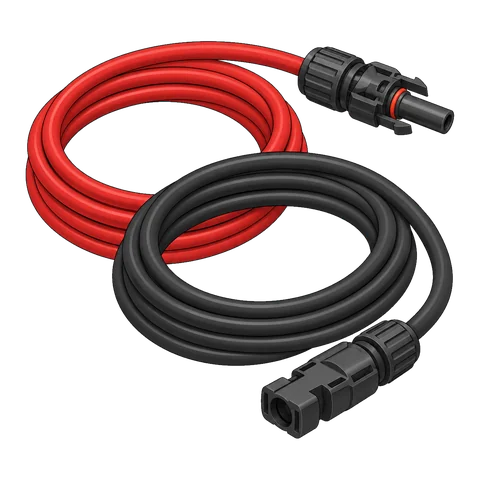
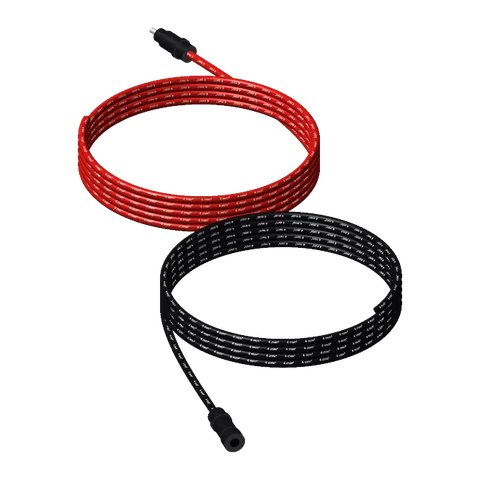
Einkaufsliste: Solarkabel 4 mm² rot/schwarz im gleichen Maßstab mit Aufdruck und Solarsteckern

diff --git a/einkaufsliste.html b/einkaufsliste.html
@@ -114,7 +114,7 @@
         <div class="wrap">
           <h2>Kabel</h2><p class="gruppe-text">Querschnitte wie im Plan angegeben. Rot für Plus, Schwarz für Minus.</p>
           <div class="teile-grid">
-            <article class="teil" id="lf0399355"><div class="teil-bild"><img src="assets/teile/lf0399355.webp?v=95dff23f" alt="Kabel 1,5 mm² D+ Leitung (Symbolbild)" width="480" height="480" loading="lazy"><span>Symbolbild</span></div><h3>Kabel 1,5 mm² D+ Leitung</h3><a class="product-btn" href="/go/lf0399355/amazon" target="_blank" rel="sponsored noopener">Bei Amazon ansehen*</a></article><article class="teil" id="lcfac3a72"><div class="teil-bild"><img src="assets/teile/lcfac3a72.webp?v=edcf3bbc" alt="Kabel 3x2,5 mm² Leitung (Symbolbild)" width="480" height="480" loading="lazy"><span>Symbolbild</span></div><h3>Kabel 3x2,5 mm² Leitung</h3><a class="product-btn" href="/go/lcfac3a72/amazon" target="_blank" rel="sponsored noopener">Bei Amazon ansehen*</a></article><article class="teil" id="led389ad4"><div class="teil-bild"><img src="assets/teile/led389ad4.webp?v=b8f8a568" alt="Kabel 4 mm² rot (Symbolbild)" width="480" height="480" loading="lazy"><span>Symbolbild</span></div><h3>Kabel 4 mm² rot</h3><a class="product-btn" href="/go/led389ad4/amazon" target="_blank" rel="sponsored noopener">Bei Amazon ansehen*</a></article><article class="teil" id="l26faf61c"><div class="teil-bild"><img src="assets/teile/l26faf61c.webp?v=6f6393ad" alt="Kabel 4 mm² schwarz (Symbolbild)" width="480" height="480" loading="lazy"><span>Symbolbild</span></div><h3>Kabel 4 mm² schwarz</h3><a class="product-btn" href="/go/l26faf61c/amazon" target="_blank" rel="sponsored noopener">Bei Amazon ansehen*</a></article><article class="teil" id="ld71281d9"><div class="teil-bild"><img src="assets/teile/ld71281d9.webp?v=adb2b2ae" alt="Kabel 4 mm² Solarkabel rot/schwarz (Symbolbild)" width="480" height="480" loading="lazy"><span>Symbolbild</span></div><h3>Kabel 4 mm² Solarkabel rot/schwarz</h3><a class="product-btn" href="/go/ld71281d9/amazon" target="_blank" rel="sponsored noopener">Bei Amazon ansehen*</a></article><article class="teil" id="lf2e2b438"><div class="teil-bild"><img src="assets/teile/lf2e2b438.webp?v=f31e7be3" alt="Kabel 6 mm² grün/gelb (Symbolbild)" width="480" height="480" loading="lazy"><span>Symbolbild</span></div><h3>Kabel 6 mm² grün/gelb</h3><a class="product-btn" href="/go/lf2e2b438/amazon" target="_blank" rel="sponsored noopener">Bei Amazon ansehen*</a></article><article class="teil" id="l64186eaa"><div class="teil-bild"><img src="assets/teile/l64186eaa.webp?v=2b7c8a00" alt="Kabel 6 mm² rot (Symbolbild)" width="480" height="480" loading="lazy"><span>Symbolbild</span></div><h3>Kabel 6 mm² rot</h3><a class="product-btn" href="/go/l64186eaa/amazon" target="_blank" rel="sponsored noopener">Bei Amazon ansehen*</a></article><article class="teil" id="l3e218847"><div class="teil-bild"><img src="assets/teile/l3e218847.webp?v=609ffc8e" alt="Kabel 6 mm² schwarz (Symbolbild)" width="480" height="480" loading="lazy"><span>Symbolbild</span></div><h3>Kabel 6 mm² schwarz</h3><a class="product-btn" href="/go/l3e218847/amazon" target="_blank" rel="sponsored noopener">Bei Amazon ansehen*</a></article><article class="teil" id="ldb46eb7e"><div class="teil-bild"><img src="assets/teile/ldb46eb7e.webp?v=b5eac163" alt="Kabel 16 mm² rot (Symbolbild)" width="480" height="480" loading="lazy"><span>Symbolbild</span></div><h3>Kabel 16 mm² rot</h3><a class="product-btn" href="/go/ldb46eb7e/amazon" target="_blank" rel="sponsored noopener">Bei Amazon ansehen*</a></article><article class="teil" id="l4f5eabbb"><div class="teil-bild"><img src="assets/teile/l4f5eabbb.webp?v=fb033052" alt="Kabel 16 mm² schwarz (Symbolbild)" width="480" height="480" loading="lazy"><span>Symbolbild</span></div><h3>Kabel 16 mm² schwarz</h3><a class="product-btn" href="/go/l4f5eabbb/amazon" target="_blank" rel="sponsored noopener">Bei Amazon ansehen*</a></article><article class="teil" id="l1732f102"><div class="teil-bild"><img src="assets/teile/l1732f102.webp?v=311a115b" alt="Kabel 25 mm² rot (Symbolbild)" width="480" height="480" loading="lazy"><span>Symbolbild</span></div><h3>Kabel 25 mm² rot</h3><a class="product-btn" href="/go/l1732f102/amazon" target="_blank" rel="sponsored noopener">Bei Amazon ansehen*</a></article><article class="teil" id="lb9239d2a"><div class="teil-bild"><img src="assets/teile/lb9239d2a.webp?v=8cfe4eda" alt="Kabel 25 mm² schwarz (Symbolbild)" width="480" height="480" loading="lazy"><span>Symbolbild</span></div><h3>Kabel 25 mm² schwarz</h3><a class="product-btn" href="/go/lb9239d2a/amazon" target="_blank" rel="sponsored noopener">Bei Amazon ansehen*</a></article><article class="teil" id="l63e70641"><div class="teil-bild"><img src="assets/teile/l63e70641.webp?v=d2238344" alt="Kabel 35 mm² rot (Symbolbild)" width="480" height="480" loading="lazy"><span>Symbolbild</span></div><h3>Kabel 35 mm² rot</h3><a class="product-btn" href="/go/l63e70641/amazon" target="_blank" rel="sponsored noopener">Bei Amazon ansehen*</a></article><article class="teil" id="l79b5dc30"><div class="teil-bild"><img src="assets/teile/l79b5dc30.webp?v=2d52f716" alt="Kabel 35 mm² schwarz (Symbolbild)" width="480" height="480" loading="lazy"><span>Symbolbild</span></div><h3>Kabel 35 mm² schwarz</h3><a class="product-btn" href="/go/l79b5dc30/amazon" target="_blank" rel="sponsored noopener">Bei Amazon ansehen*</a></article><article class="teil" id="l782c40e9"><div class="teil-bild"><img src="assets/teile/l782c40e9.webp?v=9d58ff45" alt="Kabel 70 mm² rot (Symbolbild)" width="480" height="480" loading="lazy"><span>Symbolbild</span></div><h3>Kabel 70 mm² rot</h3><a class="product-btn" href="/go/l782c40e9/amazon" target="_blank" rel="sponsored noopener">Bei Amazon ansehen*</a></article><article class="teil" id="l4ee3f033"><div class="teil-bild"><img src="assets/teile/l4ee3f033.webp?v=d798a8de" alt="Kabel 70 mm² schwarz (Symbolbild)" width="480" height="480" loading="lazy"><span>Symbolbild</span></div><h3>Kabel 70 mm² schwarz</h3><a class="product-btn" href="/go/l4ee3f033/amazon" target="_blank" rel="sponsored noopener">Bei Amazon ansehen*</a></article><article class="teil" id="ld0e943eb"><div class="teil-bild"><img src="assets/teile/ld0e943eb.webp?v=78083894" alt="Kabel 95 mm² SGX rot (Symbolbild)" width="480" height="480" loading="lazy"><span>Symbolbild</span></div><h3>Kabel 95 mm² SGX rot</h3><a class="product-btn" href="/go/ld0e943eb/amazon" target="_blank" rel="sponsored noopener">Bei Amazon ansehen*</a></article><article class="teil" id="la26bf2cd"><div class="teil-bild"><img src="assets/teile/la26bf2cd.webp?v=7bd3e5aa" alt="Kabel 95 mm² SGX schwarz (Symbolbild)" width="480" height="480" loading="lazy"><span>Symbolbild</span></div><h3>Kabel 95 mm² SGX schwarz</h3><a class="product-btn" href="/go/la26bf2cd/amazon" target="_blank" rel="sponsored noopener">Bei Amazon ansehen*</a></article>
+            <article class="teil" id="lf0399355"><div class="teil-bild"><img src="assets/teile/lf0399355.webp?v=95dff23f" alt="Kabel 1,5 mm² D+ Leitung (Symbolbild)" width="480" height="480" loading="lazy"><span>Symbolbild</span></div><h3>Kabel 1,5 mm² D+ Leitung</h3><a class="product-btn" href="/go/lf0399355/amazon" target="_blank" rel="sponsored noopener">Bei Amazon ansehen*</a></article><article class="teil" id="lcfac3a72"><div class="teil-bild"><img src="assets/teile/lcfac3a72.webp?v=edcf3bbc" alt="Kabel 3x2,5 mm² Leitung (Symbolbild)" width="480" height="480" loading="lazy"><span>Symbolbild</span></div><h3>Kabel 3x2,5 mm² Leitung</h3><a class="product-btn" href="/go/lcfac3a72/amazon" target="_blank" rel="sponsored noopener">Bei Amazon ansehen*</a></article><article class="teil" id="led389ad4"><div class="teil-bild"><img src="assets/teile/led389ad4.webp?v=b8f8a568" alt="Kabel 4 mm² rot (Symbolbild)" width="480" height="480" loading="lazy"><span>Symbolbild</span></div><h3>Kabel 4 mm² rot</h3><a class="product-btn" href="/go/led389ad4/amazon" target="_blank" rel="sponsored noopener">Bei Amazon ansehen*</a></article><article class="teil" id="l26faf61c"><div class="teil-bild"><img src="assets/teile/l26faf61c.webp?v=6f6393ad" alt="Kabel 4 mm² schwarz (Symbolbild)" width="480" height="480" loading="lazy"><span>Symbolbild</span></div><h3>Kabel 4 mm² schwarz</h3><a class="product-btn" href="/go/l26faf61c/amazon" target="_blank" rel="sponsored noopener">Bei Amazon ansehen*</a></article><article class="teil" id="ld71281d9"><div class="teil-bild"><img src="assets/teile/ld71281d9.webp?v=c3812072" alt="Kabel 4 mm² Solarkabel rot/schwarz (Symbolbild)" width="480" height="480" loading="lazy"><span>Symbolbild</span></div><h3>Kabel 4 mm² Solarkabel rot/schwarz</h3><a class="product-btn" href="/go/ld71281d9/amazon" target="_blank" rel="sponsored noopener">Bei Amazon ansehen*</a></article><article class="teil" id="lf2e2b438"><div class="teil-bild"><img src="assets/teile/lf2e2b438.webp?v=f31e7be3" alt="Kabel 6 mm² grün/gelb (Symbolbild)" width="480" height="480" loading="lazy"><span>Symbolbild</span></div><h3>Kabel 6 mm² grün/gelb</h3><a class="product-btn" href="/go/lf2e2b438/amazon" target="_blank" rel="sponsored noopener">Bei Amazon ansehen*</a></article><article class="teil" id="l64186eaa"><div class="teil-bild"><img src="assets/teile/l64186eaa.webp?v=2b7c8a00" alt="Kabel 6 mm² rot (Symbolbild)" width="480" height="480" loading="lazy"><span>Symbolbild</span></div><h3>Kabel 6 mm² rot</h3><a class="product-btn" href="/go/l64186eaa/amazon" target="_blank" rel="sponsored noopener">Bei Amazon ansehen*</a></article><article class="teil" id="l3e218847"><div class="teil-bild"><img src="assets/teile/l3e218847.webp?v=609ffc8e" alt="Kabel 6 mm² schwarz (Symbolbild)" width="480" height="480" loading="lazy"><span>Symbolbild</span></div><h3>Kabel 6 mm² schwarz</h3><a class="product-btn" href="/go/l3e218847/amazon" target="_blank" rel="sponsored noopener">Bei Amazon ansehen*</a></article><article class="teil" id="ldb46eb7e"><div class="teil-bild"><img src="assets/teile/ldb46eb7e.webp?v=b5eac163" alt="Kabel 16 mm² rot (Symbolbild)" width="480" height="480" loading="lazy"><span>Symbolbild</span></div><h3>Kabel 16 mm² rot</h3><a class="product-btn" href="/go/ldb46eb7e/amazon" target="_blank" rel="sponsored noopener">Bei Amazon ansehen*</a></article><article class="teil" id="l4f5eabbb"><div class="teil-bild"><img src="assets/teile/l4f5eabbb.webp?v=fb033052" alt="Kabel 16 mm² schwarz (Symbolbild)" width="480" height="480" loading="lazy"><span>Symbolbild</span></div><h3>Kabel 16 mm² schwarz</h3><a class="product-btn" href="/go/l4f5eabbb/amazon" target="_blank" rel="sponsored noopener">Bei Amazon ansehen*</a></article><article class="teil" id="l1732f102"><div class="teil-bild"><img src="assets/teile/l1732f102.webp?v=311a115b" alt="Kabel 25 mm² rot (Symbolbild)" width="480" height="480" loading="lazy"><span>Symbolbild</span></div><h3>Kabel 25 mm² rot</h3><a class="product-btn" href="/go/l1732f102/amazon" target="_blank" rel="sponsored noopener">Bei Amazon ansehen*</a></article><article class="teil" id="lb9239d2a"><div class="teil-bild"><img src="assets/teile/lb9239d2a.webp?v=8cfe4eda" alt="Kabel 25 mm² schwarz (Symbolbild)" width="480" height="480" loading="lazy"><span>Symbolbild</span></div><h3>Kabel 25 mm² schwarz</h3><a class="product-btn" href="/go/lb9239d2a/amazon" target="_blank" rel="sponsored noopener">Bei Amazon ansehen*</a></article><article class="teil" id="l63e70641"><div class="teil-bild"><img src="assets/teile/l63e70641.webp?v=d2238344" alt="Kabel 35 mm² rot (Symbolbild)" width="480" height="480" loading="lazy"><span>Symbolbild</span></div><h3>Kabel 35 mm² rot</h3><a class="product-btn" href="/go/l63e70641/amazon" target="_blank" rel="sponsored noopener">Bei Amazon ansehen*</a></article><article class="teil" id="l79b5dc30"><div class="teil-bild"><img src="assets/teile/l79b5dc30.webp?v=2d52f716" alt="Kabel 35 mm² schwarz (Symbolbild)" width="480" height="480" loading="lazy"><span>Symbolbild</span></div><h3>Kabel 35 mm² schwarz</h3><a class="product-btn" href="/go/l79b5dc30/amazon" target="_blank" rel="sponsored noopener">Bei Amazon ansehen*</a></article><article class="teil" id="l782c40e9"><div class="teil-bild"><img src="assets/teile/l782c40e9.webp?v=9d58ff45" alt="Kabel 70 mm² rot (Symbolbild)" width="480" height="480" loading="lazy"><span>Symbolbild</span></div><h3>Kabel 70 mm² rot</h3><a class="product-btn" href="/go/l782c40e9/amazon" target="_blank" rel="sponsored noopener">Bei Amazon ansehen*</a></article><article class="teil" id="l4ee3f033"><div class="teil-bild"><img src="assets/teile/l4ee3f033.webp?v=d798a8de" alt="Kabel 70 mm² schwarz (Symbolbild)" width="480" height="480" loading="lazy"><span>Symbolbild</span></div><h3>Kabel 70 mm² schwarz</h3><a class="product-btn" href="/go/l4ee3f033/amazon" target="_blank" rel="sponsored noopener">Bei Amazon ansehen*</a></article><article class="teil" id="ld0e943eb"><div class="teil-bild"><img src="assets/teile/ld0e943eb.webp?v=78083894" alt="Kabel 95 mm² SGX rot (Symbolbild)" width="480" height="480" loading="lazy"><span>Symbolbild</span></div><h3>Kabel 95 mm² SGX rot</h3><a class="product-btn" href="/go/ld0e943eb/amazon" target="_blank" rel="sponsored noopener">Bei Amazon ansehen*</a></article><article class="teil" id="la26bf2cd"><div class="teil-bild"><img src="assets/teile/la26bf2cd.webp?v=7bd3e5aa" alt="Kabel 95 mm² SGX schwarz (Symbolbild)" width="480" height="480" loading="lazy"><span>Symbolbild</span></div><h3>Kabel 95 mm² SGX schwarz</h3><a class="product-btn" href="/go/la26bf2cd/amazon" target="_blank" rel="sponsored noopener">Bei Amazon ansehen*</a></article>
           </div>
         </div>
       </section>
